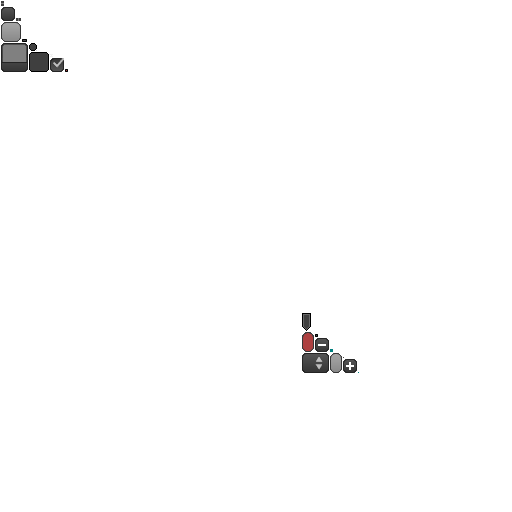
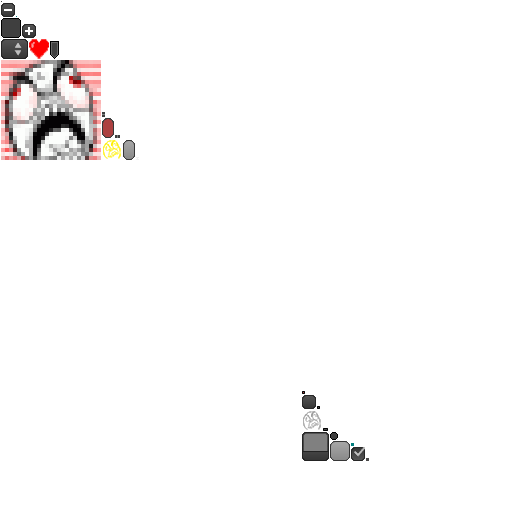
ingame gui hlavniho hrace

Changed region(s): [[0.0, 0.0, 0.2812, 0.3125], [0.5625, 0.5938, 0.7188, 0.9062]]

diff --git a/zen/src/cz/emo4d/zen/ui/GameGuiStage.java b/zen/src/cz/emo4d/zen/ui/GameGuiStage.java
@@ -4,10 +4,12 @@ import com.badlogic.gdx.Input.Keys;
 import com.badlogic.gdx.scenes.scene2d.Actor;
 import com.badlogic.gdx.scenes.scene2d.InputEvent;
 import com.badlogic.gdx.scenes.scene2d.ui.Dialog;
+import com.badlogic.gdx.scenes.scene2d.ui.Image;
 import com.badlogic.gdx.scenes.scene2d.ui.Label;
 import com.badlogic.gdx.scenes.scene2d.ui.Table;
 import com.badlogic.gdx.scenes.scene2d.ui.TextButton;
 import com.badlogic.gdx.scenes.scene2d.utils.ClickListener;
+import com.badlogic.gdx.scenes.scene2d.utils.Drawable;
 
 import cz.emo4d.zen.Zen;
 import cz.emo4d.zen.screens.GameScreen;
@@ -29,15 +31,55 @@ public class GameGuiStage extends BaseStage {
 
 		rootPlayer = new Table(skin);
 		rootPlayer.setFillParent(true);
-		rootPlayer.debug();
+		//		rootPlayer.debug();
 
-		rootPlayer.add(new Label("test", skin)).left();
+		Table playerGui = createPlayerGui();
+		rootPlayer.add(playerGui).left();
 
 		rootPlayer.row();
 		rootPlayer.add().expand();
 
 		addActor(rootPlayer);
 	}
+
+
+
+
+
+	private Table createPlayerGui() {
+		Table tbl = new Table(skin);
+		//		tbl.debug();
+		tbl.setBackground(skin.getDrawable("gray-transparent"));
+
+
+		tbl.add(new Image(skin.getDrawable("avatar-main"))).width(60).height(60).pad(10);
+
+		Table stats = new Table(skin);
+		tbl.add(stats).pad(0, 0, 0, 10);
+
+		stats.add(new Label("LIVES", skin)).left().spaceRight(20);
+		Drawable heart = skin.getDrawable("heart-0");
+		stats.add(new Image(heart)).spaceRight(5);
+		stats.add(new Image(heart)).spaceRight(5);
+		stats.add(new Image(heart)).spaceRight(5);
+		stats.add(new Image(heart)).spaceRight(5);
+		stats.add(new Image(heart)).spaceRight(5);
+
+		stats.row().spaceTop(5);
+		stats.add(new Label("RAGE", skin)).left().spaceRight(20);
+		Drawable rageOn = skin.getDrawable("rage-on");
+		Drawable rageOff = skin.getDrawable("rage");
+		stats.add(new Image(rageOn)).spaceRight(5);
+		stats.add(new Image(rageOn)).spaceRight(5);
+		stats.add(new Image(rageOff)).spaceRight(5);
+		stats.add(new Image(rageOff)).spaceRight(5);
+		stats.add(new Image(rageOff)).spaceRight(5);
+
+		return tbl;
+	}
+
+
+
 
 
 
